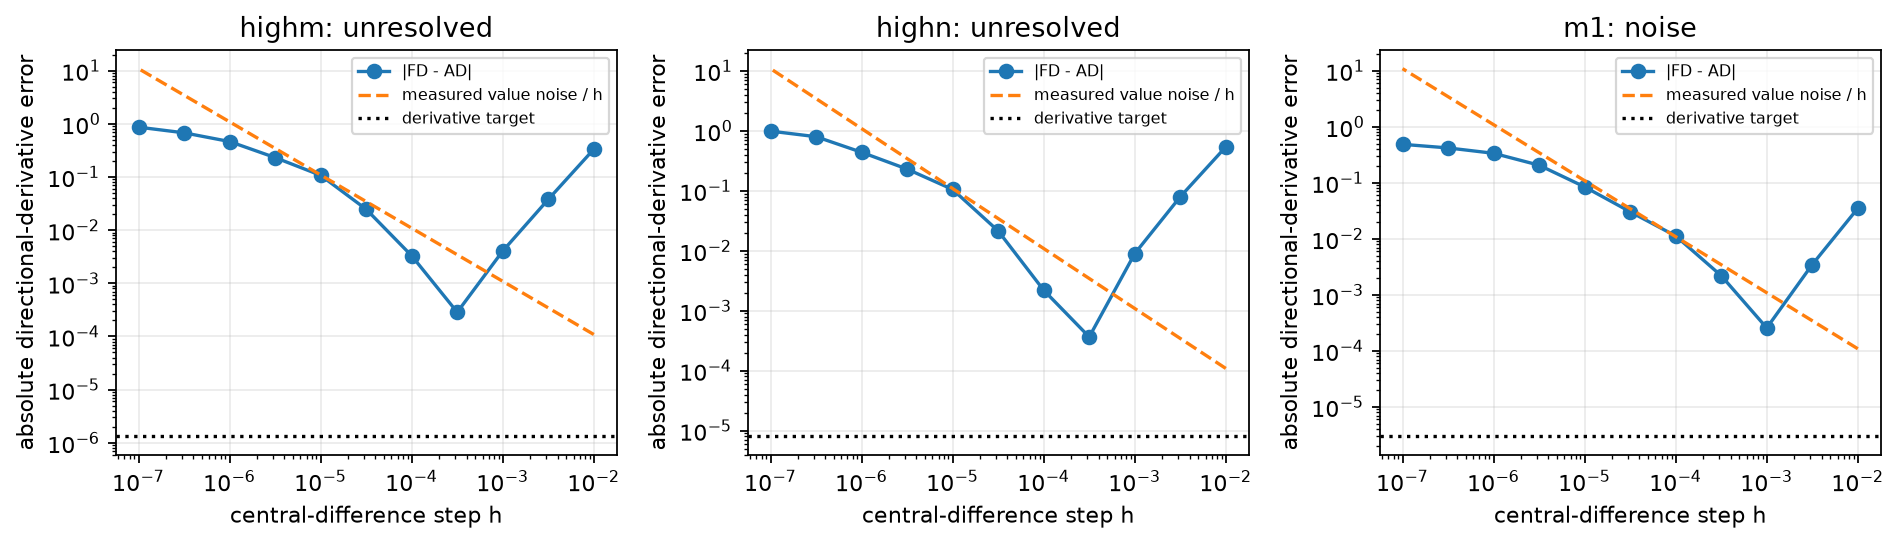
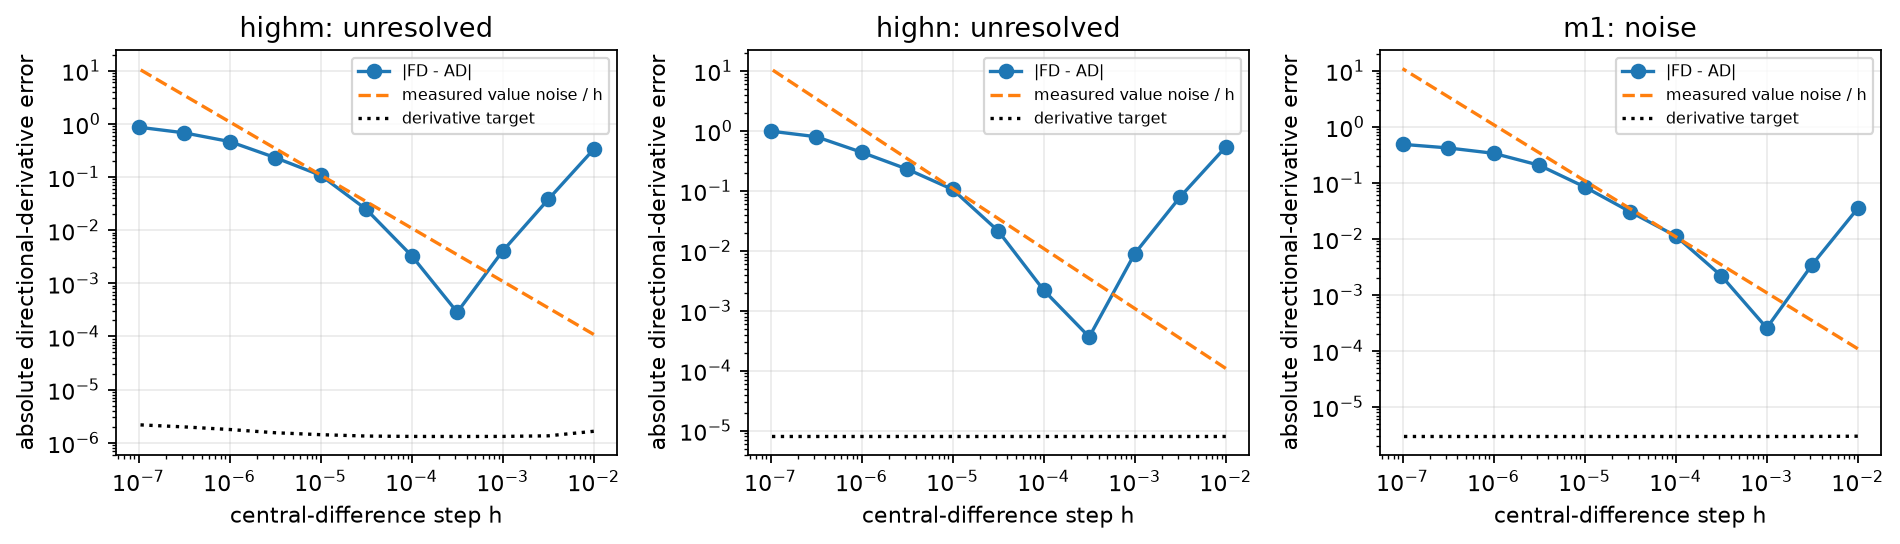
Replay exact saved derivative thresholds in WP6 step studies

Changed region(s): [[0.7142, 0.7812, 0.9937, 0.8125], [0.4037, 0.7812, 0.6521, 0.8125], [0.0621, 0.7812, 0.3105, 0.8125]]

diff --git a/tests/test_adjoint_reference_step_study.py b/tests/test_adjoint_reference_step_study.py
@@ -13,7 +13,8 @@ SCRIPTS = (
 )
 
 
-def test_saved_directional_errors_are_replayed(tmp_path, monkeypatch):
+@pytest.mark.parametrize("ad", [2.0, 1e-9])
+def test_saved_directional_errors_are_replayed(tmp_path, monkeypatch, ad):
     pytest.importorskip("matplotlib")
     source = tmp_path / "plot_02_taylor_small_random_linear_m1.npz"
     h = np.geomspace(1e-2, 1e-5, 4)
@@ -22,11 +23,12 @@ def test_saved_directional_errors_are_replayed(tmp_path, monkeypatch):
         source,
         steps=h,
         central_fd=fd,
-        directional_ad=np.asarray(2.0),
+        directional_ad=np.asarray(ad),
         noise_floor=np.asarray(1e-8),
         direction_name=np.asarray("m1"),
         status=np.asarray("unresolved"),
         provenance=np.asarray('{"reference":"test oracle"}'),
+        acceptance_threshold=1e-6 * fd,
     )
     output = tmp_path / "output"
     monkeypatch.syspath_prepend(str(SCRIPTS))
@@ -42,6 +44,7 @@ def test_saved_directional_errors_are_replayed(tmp_path, monkeypatch):
         np.testing.assert_array_equal(saved["steps_0"], h)
         np.testing.assert_array_equal(saved["central_fd_0"], fd)
         np.testing.assert_allclose(saved["noise_scale_0"], 1e-8 / h)
+        np.testing.assert_array_equal(saved["acceptance_threshold_0"], 1e-6 * fd)
         assert saved["status_0"].item() == "unresolved"
         assert (
             saved["source_sha256_0"].item()
@@ -61,6 +64,7 @@ def test_incompatible_directional_studies_are_rejected(tmp_path, monkeypatch):
             direction_name=np.asarray(direction),
             status=np.asarray("unresolved"),
             provenance=np.asarray(f'{{"reference":"test oracle","seed":{seed}}}'),
+            acceptance_threshold=np.asarray([2.01e-6, 2.001e-6]),
         )
     output = tmp_path / "output"
     monkeypatch.syspath_prepend(str(SCRIPTS))

diff --git a/docs/adjoint_verification/scripts/plot_reference_step_study.py b/docs/adjoint_verification/scripts/plot_reference_step_study.py
@@ -45,6 +45,7 @@ def main() -> None:
                     direction = str(saved["direction_name"].item())
                     status = str(saved["status"].item())
                     provenance = str(saved["provenance"].item())
+                    threshold = saved["acceptance_threshold"]
                 source_provenance = json.loads(provenance)
                 if study_provenance is None:
                     study_provenance = source_provenance
@@ -54,6 +55,9 @@ def main() -> None:
                 if (
                     h.ndim != 1
                     or fd.shape != h.shape
+                    or threshold.shape != h.shape
+                    or not np.isfinite(threshold).all()
+                    or np.any(threshold <= 0)
                     or not np.isfinite(h).all()
                     or np.any(h <= 0)
                     or not np.isfinite(ad)
@@ -74,8 +78,9 @@ def main() -> None:
                     "--",
                     label="measured value noise / h",
                 )
-                axis.axhline(
-                    1e-6 * abs(ad) if abs(ad) > 1e-8 else 1e-8,
+                axis.loglog(
+                    h,
+                    threshold,
                     color="black",
                     linestyle=":",
                     label="derivative target",
@@ -90,6 +95,7 @@ def main() -> None:
                 arrays[f"central_fd_{index}"] = fd
                 arrays[f"directional_ad_{index}"] = np.asarray(ad)
                 arrays[f"noise_scale_{index}"] = noise_scale
+                arrays[f"acceptance_threshold_{index}"] = threshold
                 arrays[f"direction_{index}"] = np.asarray(direction)
                 arrays[f"status_{index}"] = np.asarray(status)
                 arrays[f"provenance_{index}"] = np.asarray(provenance)

diff --git a/docs/adjoint_verification/FINDINGS_WP6.md b/docs/adjoint_verification/FINDINGS_WP6.md
@@ -141,7 +141,9 @@ floating-point comparisons are conservative: a changed binary or even a
 non-bitwise-reproducible reference solve requires a new scan, not silently
 accepted reuse. Native resume reproducibility still needs measurement.
 Analytic-oracle interruption/resume and rejection tests passed (18 tests);
-saved-data replay and mixed-provenance rejection passed (2 tests).
+saved-data replay and mixed-provenance rejection passed (3 tests).
+The replay uses the saved per-step derivative acceptance thresholds rather
+than inferring a different near-zero rule from the AD derivative alone.
 
 ## N10: one-shot PR cross-check
 
